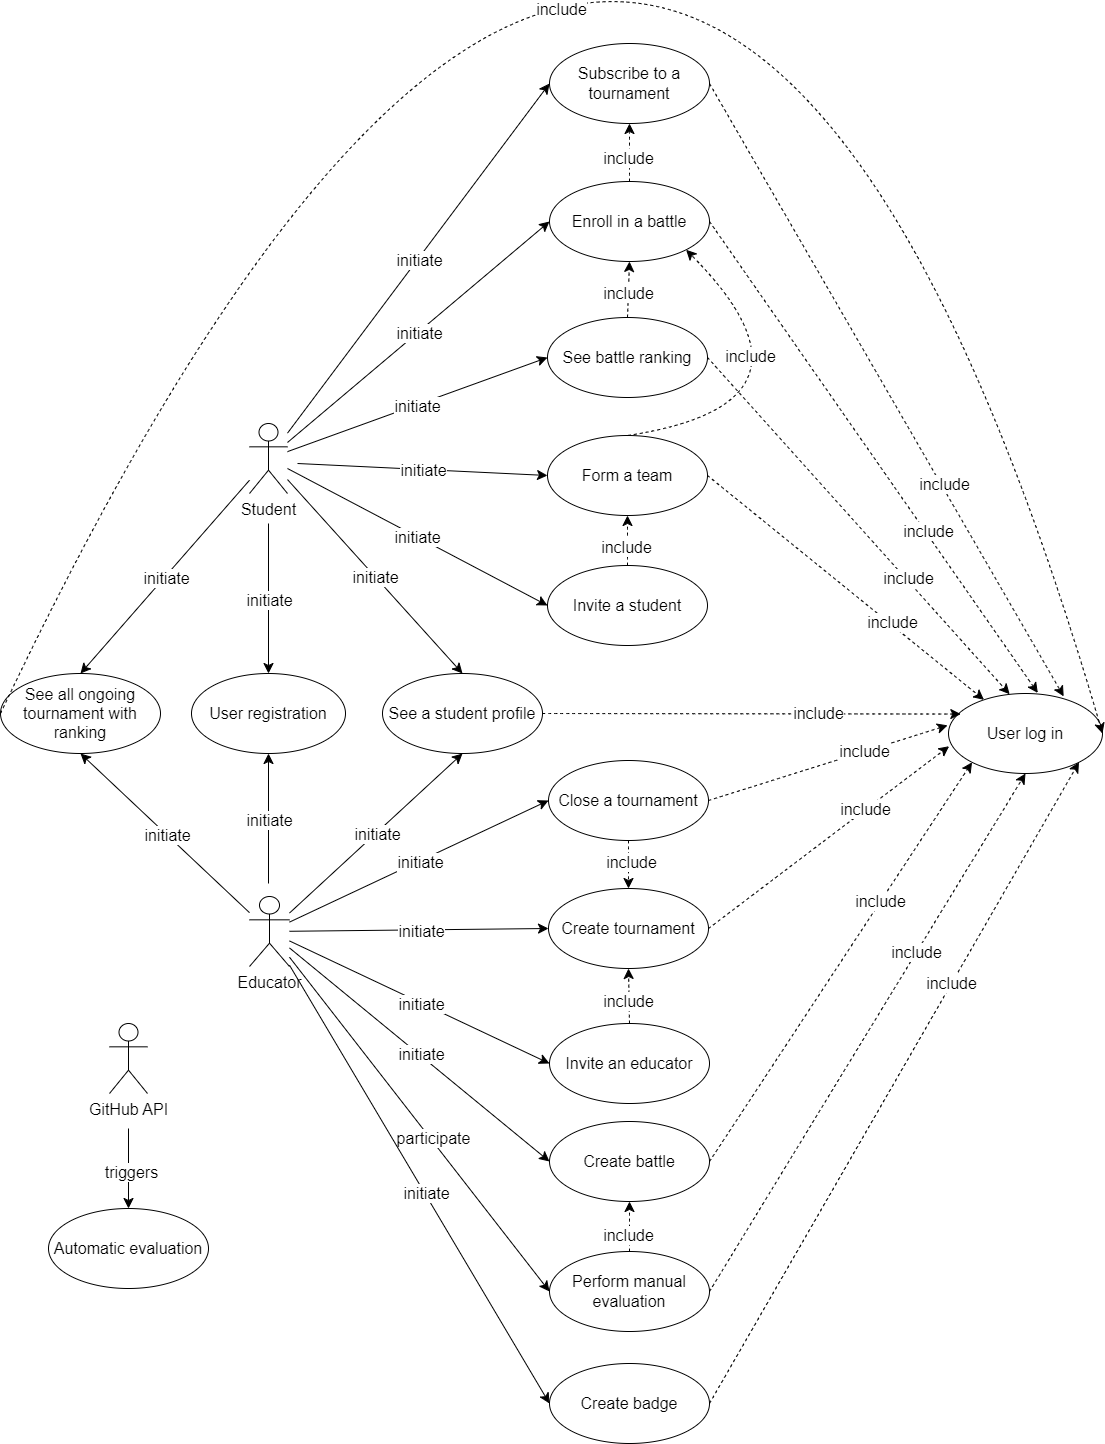
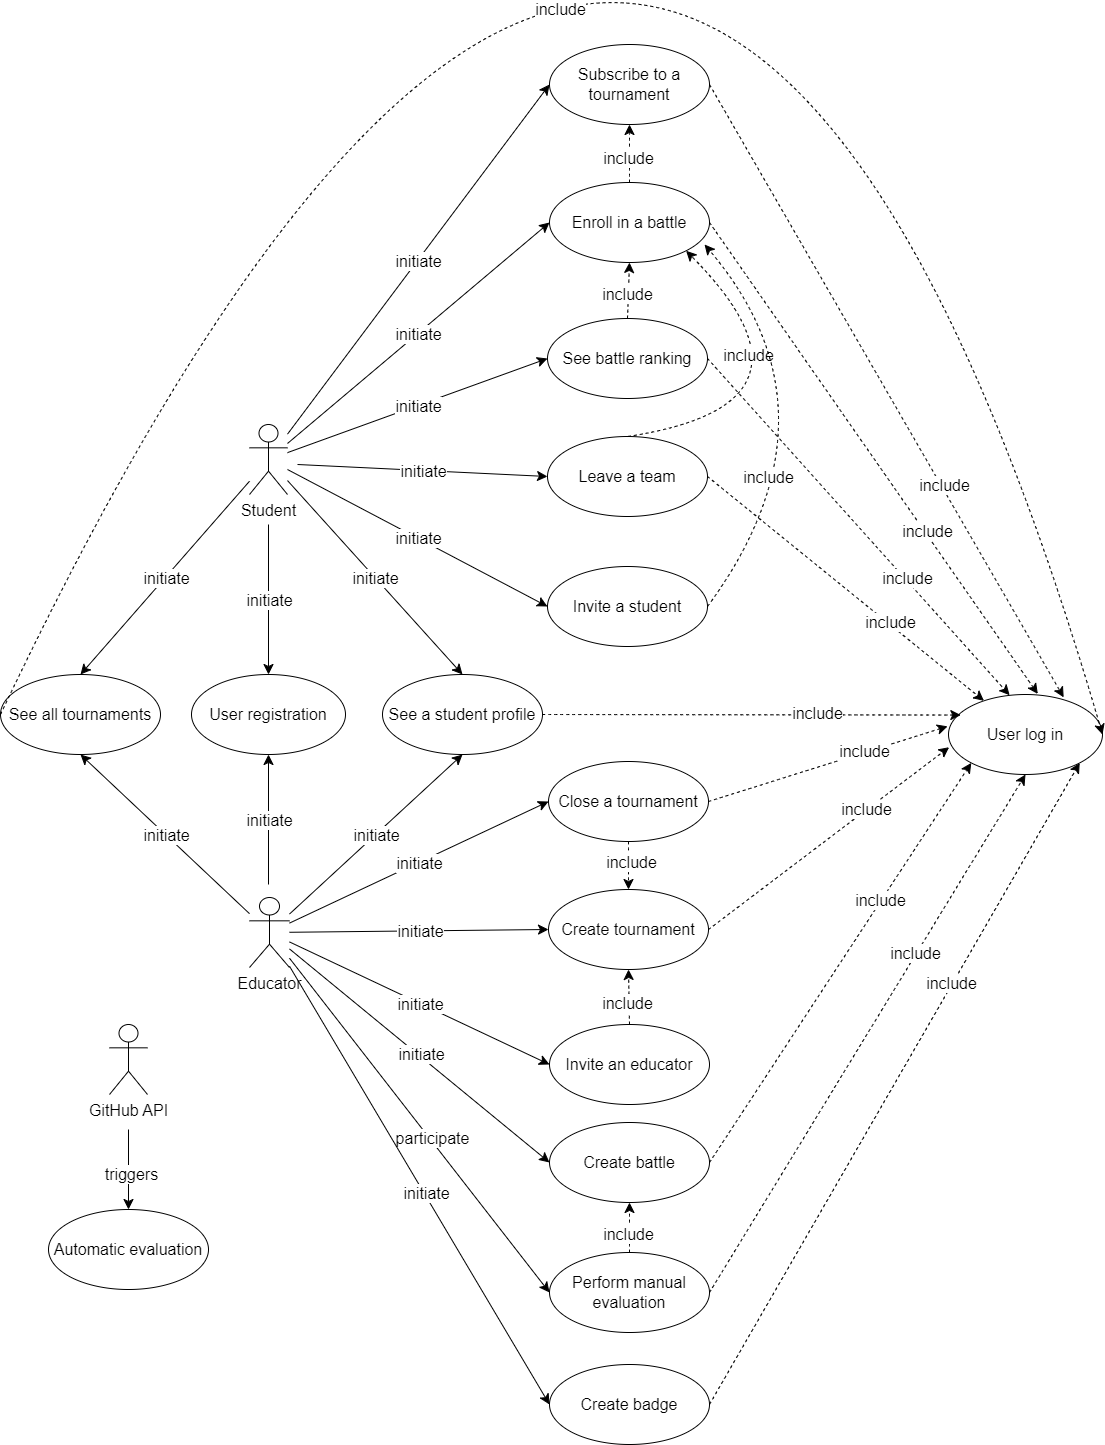
Updates use cases.

diff --git a/RASD/chapters/3_specific_requirements.tex b/RASD/chapters/3_specific_requirements.tex
@@ -253,10 +253,12 @@ In this section, it is given a complete description of the functional requiremen
                     \textbf{Event flow}  & 
                     \begin{enumerate}[label=\arabic*.]
                         \item The user visualize the register page.
-                        \item The user clicks on the "sign up" button.
                         \item The user inserts the requested personal information.
+                        \item The user clicks on the "sign up" button.
                         \item The system checks if all information are inserted.
                         \item The system checks if the username is available.
+                        \item The system sends a confirmation e-mail to the user.
+                        \item The user clicks on the link on the confirmation e-mail received.
                         \item The system creates the personal profile of the user.
                     \end{enumerate}\\
                     \hline
@@ -318,10 +320,7 @@ In this section, it is given a complete description of the functional requiremen
                     \textbf{Exit conditions}  & The tournament has been successfully created and can be visualize in the list of all ongoing tournaments. All registered students will receive a notification that a new tournament is available.\\
                     \hline
                     \textbf{Exceptions}  & 
-                    \begin{itemize}
-                        \item If there are some missing information, the system will throw an error message. The system return to the entry condition.
-                        \item  If an information is incorrect the system will throw an error message and the educator will be requested to modify it. An incorrect information can be a deadline that is before the current date.
-                    \end{itemize}\\
+                    If there are some missing and/or incorrect information, the system will throw an error message and the educator will be requested to modify it. The system return to the entry condition. \\
                     \hline 
                 \end{tabular}
         \end{table}
@@ -339,20 +338,17 @@ In this section, it is given a complete description of the functional requiremen
                     \hline
                     \textbf{Event flow}  & 
                     \begin{enumerate}[label=\arabic*.]
-                        \item The educator clicks on the button "create battle"
+                        \item The educator clicks on the button "my tournaments".
                         \item The educator visualize a list of tournaments to which he/she has access.
                         \item The educator select a tournament from the list.
+                        \item The educator clicks on the button "create battle".
                         \item The educator inserts all needed information in the form.
                         \item The system checks that the correctness of all information.
                     \end{enumerate}\\
                     \hline
                     \textbf{Exit conditions}  & The battle has been successfully created and all students subscribed to the tournament in which it belongs have received a notification.  \\
                     \hline
-                    \textbf{Exceptions}  & 
-                    \begin{itemize}
-                        \item If there are some missing information, the system will throw an error message. The system return to the entry condition.
-                        \item  If an information is incorrect the system will throw an error message and the educator will be requested to modify it. An incorrect information can be a deadline that is before the current date.
-                    \end{itemize}\\
+                    \textbf{Exceptions}  &  If there are some missing and/or incorrect information, the system will throw an error message and the educator will be requested to modify it.  The system return to the entry condition. \\
                     \hline 
                 \end{tabular}
         \end{table}
@@ -370,9 +366,10 @@ In this section, it is given a complete description of the functional requiremen
                     \hline
                     \textbf{Event flow}  & 
                     \begin{enumerate}[label=\arabic*.]
-                        \item The educator clicks on the button "Invite educator"
+                        \item The educator clicks on the button "my tournaments".
                         \item The educator visualize a list of tournaments to which he/she has access.
                         \item The educator select a tournament from the list.
+                        \item The educator clicks on the button "invite educator"
                         \item The educator search for the username of the colleague he/she wants to invite.
                         \item The educator views the colleague's profile and selects it.
                         \item The system sends an e-mail to the selected colleague.
@@ -380,6 +377,7 @@ In this section, it is given a complete description of the functional requiremen
                     \hline
                     \textbf{Exit conditions}  & The invite has been successfully sent. \\
                     \hline
+                    \textbf{Exceptions} & If the selected username does not exist the system will throw an error message. The system will return to the entry conditions.
                 \end{tabular}
         \end{table}
         \item \lbl{uc: closeT} \textbf{Close a tournament}
@@ -446,15 +444,13 @@ In this section, it is given a complete description of the functional requiremen
                     \hline
                     \textbf{Event flow}  & 
                     \begin{enumerate}[label=\arabic*.]
-                        \item The user clicks on the button "join tournament"
-                        \item The user visualize the list of tournaments.
-                        \item The user select a tournament.
+                        \item The user clicks on the link received via e-mail.
                         \item The system check if the subscription deadline is not expired.
                     \end{enumerate}\\ 
                     \hline
                     \textbf{Exit conditions}  & The student is successfully subscribed to the tournament. The system will send the student further notification about the upcoming battles. \\
                     \hline
-                    \textbf{Exceptions}  & If the subscription deadline is expired, the system will throw an error message and the student will not be able to subscribe to the tournament. The system returns to the entry condition. \\
+                    \textbf{Exceptions}  & If the subscription deadline is expired, the system will throw an error message and the student will not be able to subscribe to the tournament. The system will return to the entry condition. \\
                     \hline 
                 \end{tabular}
         \end{table}
@@ -472,46 +468,200 @@ In this section, it is given a complete description of the functional requiremen
                     \hline
                     \textbf{Event flow}  & 
                     \begin{enumerate}[label=\arabic*.]
-                        \item The user clicks on the button "join battle".
-                        \item The user visualize the list of tournament.
-                        \item The user select a tournament.
-                         \item The user visualize the list of battles of the selected tournament.
-                        \item The user select a battle.
-                        \item The system check if the registration deadline is not expired.
+                        \item The student clicks on the button "my tournaments".
+                        \item The student visualizes the list of tournaments he/she is registered to.
+                        \item The student selects a tournament.
+                         \item The student clicks on the button "join a battle".
+                        \item The student visualizes the list of battles that belong to that tournament.
+                        \item The student selects a battle.
+                        \item The system checks if the registration deadline is not expired.
                     \end{enumerate}\\ 
                     \hline
                     \textbf{Exit conditions}  & The student is successfully enrolled to the battle. \\
                     \hline
-                    \textbf{Exceptions}  & If the registration deadline is expired, the system will throw an error message and the student will not be able to subscribe to the battle. The system returns to the entry condition.  \\
+                    \textbf{Exceptions}  & If the registration deadline is expired, the system will throw an error message and the student will not be able to subscribe to the battle. The system will return to the list of battles.  \\
                     \hline 
                 \end{tabular}
         \end{table}
-        \item \lbl{uc: formTeam} \textbf{Form a team}
+        \item \lbl{uc: inviteS} \textbf{Invite a student}
         \begin{table}[H]
     	    \centering
                 \renewcommand{\arraystretch}{1.5}
                 \begin{tabular}{|m{3.2cm}|m{9.8cm}|}
                     \hline
-                    \textbf{Name} & cc \\
+                    \textbf{Name} & Invite a student. \\
                     \hline
-                    \textbf{Actors} & cc \\
+                    \textbf{Actors} & Students. \\
                     \hline
-                    \textbf{Entry conditions}  & cc \\
+                    \textbf{Entry conditions}  & A student, who is enrolled in a battle, wants to create a team. \\
                     \hline
-                    \textbf{Event flow}  & cc \\ 
+                    \textbf{Event flow}  &  
+                    \begin{enumerate}[label=\arabic*.]
+                        \item The student clicks on the button "my battles".
+                        \item The student visualizes the list of battles he/she is registered to.
+                        \item The student selects a battle.
+                        \item The student visualize his/hers current team.
+                        \item The student clicks on the button "invite a student".
+                        \item The system check if the registration deadline is not expired.
+                        \item The student insert the username of the student who he/she wants to invite.
+                    \end{enumerate}\\ 
                     \hline
-                    \textbf{Exit conditions}  & cc \\
+                    \textbf{Exit conditions}  & The invited student has received an e-mail. \\
                     \hline
-                    \textbf{Exceptions}  & cc \\
+                    \textbf{Exceptions}  & If the registration deadline for the battle is expired, the system will throw an error message. The systems will return to the entry condition. \\
                     \hline 
                 \end{tabular}
         \end{table}
-        \item \lbl{uc: inviteS} \textbf{Invite a student}
-        \item \lbl{uc: rankB} \textbf{See battle ranking}
+        \item \lbl{uc: leaveT} \textbf{Leave a team}
+        \begin{table}[H]
+    	    \centering
+                \renewcommand{\arraystretch}{1.5}
+                \begin{tabular}{|m{3.2cm}|m{9.8cm}|}
+                    \hline
+                    \textbf{Name} & Leave a team. \\
+                    \hline
+                    \textbf{Actors} & Students. \\
+                    \hline
+                    \textbf{Entry conditions}  & A student wants to leave his/hers current team. \\
+                    \hline
+                    \textbf{Event flow}  & 
+                    \begin{enumerate}[label=\arabic*.]
+                        \item The student clicks on the button "my battles".
+                        \item The student visualizes the list of battles he/she is registered to.
+                        \item The student selects a battle.
+                        \item The student visualizes his/hers current team.
+                         \item The student clicks on the button "leave team".
+                        \item The system check if the registration deadline is not expired.
+                    \end{enumerate}\\ 
+                    \hline
+                    \textbf{Exit conditions}  & The student has successfully left his/her team. \\
+                    \hline
+                    \textbf{Exceptions}  & If the registration deadline is already expired the system will throw an error message and the student will not be able to leave the team. The system will return to the entry condition. \\
+                    \hline 
+                \end{tabular}
+        \end{table}
+        \item \lbl{uc: rankB} \textbf{View battle ranking}
+        \begin{table}[H]
+    	    \centering
+                \renewcommand{\arraystretch}{1.5}
+                \begin{tabular}{|m{3.2cm}|m{9.8cm}|}
+                    \hline
+                    \textbf{Name} & View battle ranking. \\
+                    \hline
+                    \textbf{Actors} & Educators and students. \\
+                    \hline
+                    \textbf{Entry conditions}  & An user wants to see the real-time ranking of a battle. \\
+                    \hline
+                    \textbf{Event flow}  & 
+                    \begin{enumerate}[label=\arabic*.]
+                        \item The user clicks on the button "my battles".
+                        \item The user visualizes the list of battles that are correlated to him/her.
+                        \item The user selects a battle.
+                        \item The system show the real-time raking of the selected battle.
+                    \end{enumerate}\\ 
+                    \hline
+                    \textbf{Exit conditions}  & The user visualize the real-time ranking of a battle. \\
+                    \hline
+                \end{tabular}
+        \end{table}
         \item \lbl{uc: evalM} \textbf{Perform manual evaluation}
+        \begin{table}[H]
+    	    \centering
+                \renewcommand{\arraystretch}{1.5}
+                \begin{tabular}{|m{3.2cm}|m{9.8cm}|}
+                    \hline
+                    \textbf{Name} & Perform manual evaluation. \\
+                    \hline
+                    \textbf{Actors} & Educators. \\
+                    \hline
+                    \textbf{Entry conditions}  & An educator wants to manually evaluate some students. \\
+                    \hline
+                    \textbf{Event flow}  & 
+                    \begin{enumerate}[label=\arabic*.]
+                        \item The educator clicks on the button "my battles".
+                        \item The educator visualize the list of battles that are correlated to him/her.
+                        \item The educator select the battle he/she wants to evaluate.
+                        \item The educator clicks on the button "perform manual evaluation".
+                        \item The educator assigns a personal score to each participant in the battle.
+                        \item The educator clicks on the button "end consolidation stage".
+                    \end{enumerate}\\ 
+                    \hline
+                    \textbf{Exit conditions}  &  The educator end the consolidation stage. \\
+                    \hline
+                \end{tabular}
+        \end{table}
         \item \lbl{uc: evalA} \textbf{Perform automatic evaluation}
+        \begin{table}[H]
+    	    \centering
+                \renewcommand{\arraystretch}{1.5}
+                \begin{tabular}{|m{3.2cm}|m{9.8cm}|}
+                    \hline
+                    \textbf{Name} & Perform automatic evaluation. \\
+                    \hline
+                    \textbf{Actors} & GitHub API. \\
+                    \hline
+                    \textbf{Entry conditions}  & A team push a new solution on the GitHub repository. \\
+                    \hline
+                    \textbf{Event flow}  & 
+                    \begin{enumerate}[label=\arabic*.]
+                        \item The GitHub API triggers the CKB platform.
+                        \item The system perform the automatic evaluation.
+                        \item The system update the score of each team and the real-time rank.
+                    \end{enumerate}\\ 
+                    \hline
+                    \textbf{Exit conditions}  &  The real-time rank is updated. \\
+                    \hline
+                \end{tabular}
+        \end{table}
         \item \lbl{uc: createBadge} \textbf{Create a badge}
+        \begin{table}[H]
+    	    \centering
+                \renewcommand{\arraystretch}{1.5}
+                \begin{tabular}{|m{3.2cm}|m{9.8cm}|}
+                    \hline
+                    \textbf{Name} & Create a badge. \\
+                    \hline
+                    \textbf{Actors} & Educators. \\
+                    \hline
+                    \textbf{Entry conditions}  & An educator wants to create a new badge. \\
+                    \hline
+                    \textbf{Event flow}  & 
+                    \begin{enumerate}[label=\arabic*.]
+                        \item The user clicks on the button "create badge".
+                        \item The user inserts all information requested.
+                        \item The system check the inserted information.
+                    \end{enumerate}\\ 
+                    \hline
+                    \textbf{Exit conditions}  & The badge has been successfully created. \\
+                    \hline
+                \end{tabular}
+        \end{table}
         \item \lbl{uc: profile} \textbf{See student profile}
+        \begin{table}[H]
+    	    \centering
+                \renewcommand{\arraystretch}{1.5}
+                \begin{tabular}{|m{3.2cm}|m{9.8cm}|}
+                    \hline
+                    \textbf{Name} & See student profile. \\
+                    \hline
+                    \textbf{Actors} & Educators and students. \\
+                    \hline
+                    \textbf{Entry conditions}  & An user wants to see a personal profile of a student. \\
+                    \hline
+                    \textbf{Event flow}  & 
+                    \begin{enumerate}[label=\arabic*.]
+                        \item The user clicks on the button "see student profile".
+                        \item The user inserts the username of the student he/she wants to see.
+                        \item The system check the inserted information.
+                        \item The system show the personal profile requested.
+                    \end{enumerate}\\ 
+                    \hline
+                    \textbf{Exit conditions}  & The user see the personal profile of a student. \\
+                    \hline
+                    \textbf{Exceptions} & If the selected username does not exist the system will throw an error message. The system will return to the entry conditions \\
+                    \hline
+                \end{tabular}
+        \end{table}
     \end{enumerate}
     
 

diff --git a/RASD/chapters/5_effort.tex b/RASD/chapters/5_effort.tex
@@ -43,7 +43,7 @@
             Document setup & 2 \\ \hline
             Chapter 1: Introduction & 3 \\ \hline
             Chapter 2: Overall description & 15 \\ \hline
-            Chapter 3: Specific requirements & 13 \\ \hline
+            Chapter 3: Specific requirements & 15 \\ \hline
             Chapter 4: Alloy & 0 \\ \hline
             Extra Activities & 2 \\ \hline
 	\end{tabular}
